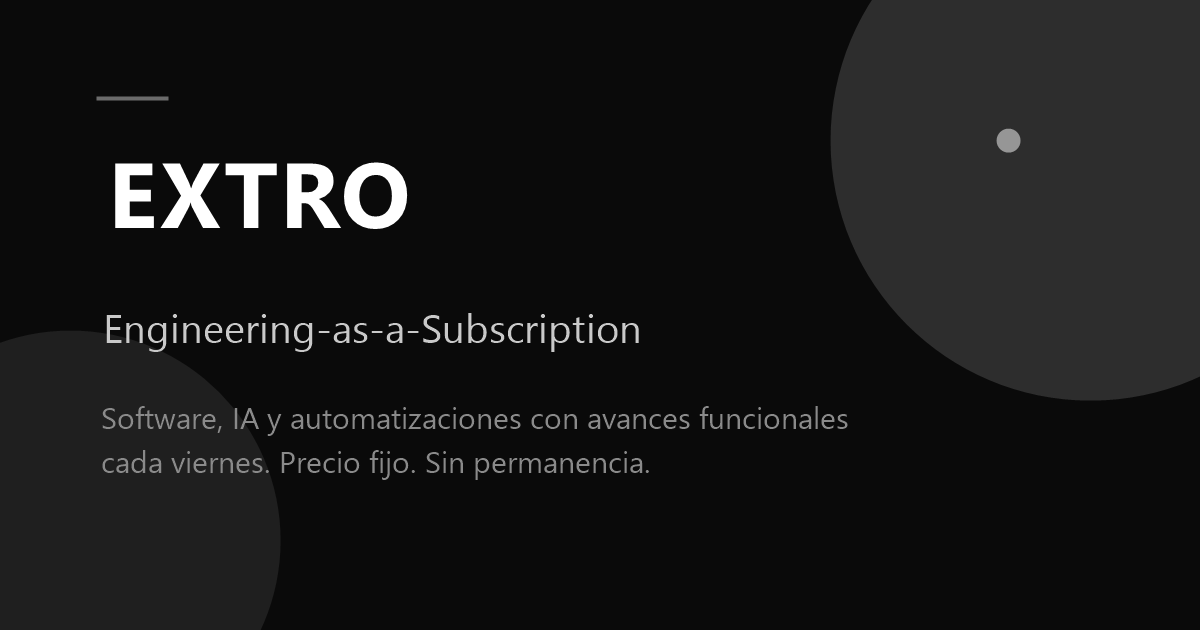
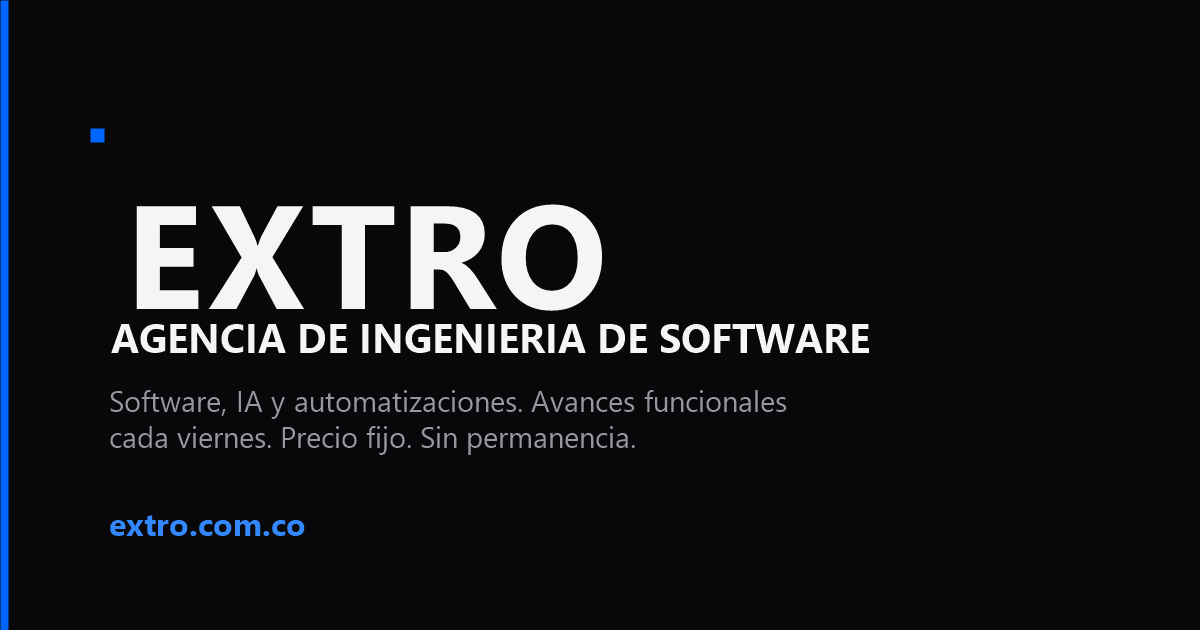
feat: project budget estimator in quote calculator, 3 long-tail blog posts, LocalBusiness schema, hola@extro.com.co email, regenerated OG image, fixed hero H1 rendering (spaces stripped inside inline-block spans), add SAS+SIC guide

diff --git a/lib/blog-posts.ts b/lib/blog-posts.ts
@@ -13,6 +13,45 @@ export interface FallbackPost extends BlogPostMeta {
 
 export const fallbackPosts: FallbackPost[] = [
   {
+    slug: 'cuanto-cuesta-desarrollar-app-colombia',
+    title: '¿Cuánto cuesta desarrollar una app en Colombia en 2026?',
+    excerpt: 'Rangos reales de presupuesto para apps web, móviles y ecommerce en el mercado colombiano, y por qué el precio cerrado es mejor que las horas.',
+    date: '2026-08-01',
+    readTime: '7 min',
+    tag: 'Negocio',
+    content: [
+      'Es la pregunta que más recibo: "¿cuánto cuesta una app?" La respuesta honesta es que depende del alcance, pero en el mercado colombiano de 2026 los rangos son más predecibles de lo que parece. Una landing con panel simple ronda los 1.500–4.000 USD. Un ecommerce con pagos e inventario, 4.000–9.000 USD. Un SaaS con usuarios, integraciones e IA, 9.000–18.000 USD.',
+      'Lo que más mueve el precio no son las pantallas sino lo invisible: autenticación, pagos, panel de administración, integraciones, infraestructura que no se caiga y pruebas automatizadas. Una "app sencilla" sin eso termina costando más en correcciones que un proyecto bien arquitecturado desde el día uno.',
+      'El modelo que usamos en EXTRO: cada proyecto se cotiza según su alcance con precio fijo, y se construye con avances funcionales cada viernes. Tú sabes desde el primer día cuánto vas a pagar y qué recibes cada semana. Si el presupuesto exacto de tu caso te interesa, en el cotizador de extro.com.co respondes 5 preguntas y tienes un rango estimado en 60 segundos.',
+    ],
+  },
+  {
+    slug: 'elegir-agencia-software-medellin',
+    title: 'Cómo elegir una agencia de software en Medellín',
+    excerpt: 'Las 5 preguntas que debes hacerle a cualquier agencia o desarrollador antes de firmar, y las banderas rojas que te ahorran dinero.',
+    date: '2026-07-25',
+    readTime: '8 min',
+    tag: 'Negocio',
+    content: [
+      'Medellín se convirtió en el polo tecnológico de Colombia, y con eso crecieron las opciones: agencias grandes que cobran por horas con gestores de por medio, freelancers baratos que desaparecen a mitad de proyecto, y estudios pequeños como EXTRO que apuestan por alcance cerrado y entrega semanal. Elegir mal cuesta lo mismo que elegir bien dos veces.',
+      'Haz siempre estas 5 preguntas: ¿quién escribe el código y hablo directo con esa persona? ¿El precio es fijo o por horas? ¿Qué entregable concreto recibo cada semana? ¿Quién es dueño del código y la infraestructura? ¿Qué pasa si quiero agregar alcance a mitad de camino? Si una respuesta es vaga, es una bandera roja.',
+      'Las señales de una agencia sólida: entregables semanales demostrables, contrato claro sobre propiedad del código, stack tecnológico estándar (no tecnologías propietarias que te atan) y disposición a empezar con un alcance pequeño. En EXTRO respondemos esas 5 preguntas en una llamada de 15 minutos, sin compromiso.',
+    ],
+  },
+  {
+    slug: 'software-pymes-por-que',
+    title: '¿Por qué tu PYME necesita software propio?',
+    excerpt: 'De las planillas de Excel al producto que te diferencia: cuándo tiene sentido invertir en desarrollo a medida y cuándo no.',
+    date: '2026-07-20',
+    readTime: '6 min',
+    tag: 'Negocio',
+    content: [
+      'La mayoría de las PYMES colombianas opera con la misma infraestructura digital: Excel, WhatsApp y una que otra herramienta SaaS genérica. Eso funciona hasta que creces: los pedidos se pierden, los datos viven en cabezas y la operación depende de procesos manuales que no escalan.',
+      '¿Cuándo sí conviene desarrollo a medida? Cuando un proceso repetitivo consume horas cada semana, cuando dependes de herramientas que no se integran entre sí, o cuando tu diferenciador competitivo es digital (atención 24/7, delivery, pagos en línea). Si ninguna de esas tres cosas es cierta, un SaaS genérico alcanza.',
+      'La buena noticia es que el software a medida ya no es un lujo de empresas grandes: un proyecto puntual se cotiza según su alcance, y después de la entrega puedes continuar evolucionándolo con un plan mensual. Así una PYME tiene equipo de desarrollo propio sin contratar a nadie — nosotros somos ese equipo.',
+    ],
+  },
+  {
     slug: 'precio-cerrado-vs-horas',
     title: 'Por qué el precio cerrado gana contra el cobro por horas',
     excerpt: 'El modelo de precio cerrado elimina incertidumbre para el cliente y fomenta la eficiencia en el desarrollo. Te explico por qué lo uso.',

diff --git a/lib/i18n/es.ts b/lib/i18n/es.ts
@@ -249,13 +249,16 @@ export const es = {
       ]},
     ],
     recommendations: [
-      { plan: 'Foundation', price: '$500/mes', time: '4-6 semanas', tech: 'Next.js, PostgreSQL, Vercel', match: 'Básico' },
-      { plan: 'Growth', price: '$1,250/mes', time: '3-5 semanas', tech: 'Next.js, PostgreSQL, OpenAI, AWS', match: 'Recomendado' },
-      { plan: 'Scale', price: '$2,500/mes', time: '2-4 semanas', tech: 'Next.js, PostgreSQL, OpenAI, Docker, CI/CD pipeline', match: 'Acelerado' },
+      { plan: 'Foundation', price: '$500/mes', range: '$1.500 – $4.000', time: '4-6 semanas', tech: 'Next.js, PostgreSQL, Vercel', match: 'Básico' },
+      { plan: 'Growth', price: '$1,250/mes', range: '$4.000 – $9.000', time: '3-5 semanas', tech: 'Next.js, PostgreSQL, OpenAI, AWS', match: 'Recomendado' },
+      { plan: 'Scale', price: '$2,500/mes', range: '$9.000 – $18.000', time: '2-4 semanas', tech: 'Next.js, PostgreSQL, OpenAI, Docker, CI/CD pipeline', match: 'Acelerado' },
     ],
     resultLabel: 'Recomendación del equipo de ingeniería',
+    projectBudgetLabel: 'Presupuesto estimado del proyecto',
+    budgetHint: 'Rango orientativo en USD. El precio fijo final se confirma en la llamada de 15 minutos.',
+    planContinuityLabel: 'Plan mensual de continuidad (después de la entrega)',
     resultDetail: 'Incluye arquitectura, construcción, QA y despliegue. Después de la entrega puedes continuar con el plan mensual o cerrar.',
-    cta: 'Quiero empezar esta semana',
+    cta: 'Cotizar este proyecto',
     reset: 'Recalcular',
     back: 'Atrás',
     next: 'Siguiente',
@@ -368,7 +371,7 @@ export const es = {
       months: ['Enero', 'Febrero', 'Marzo', 'Abril', 'Mayo', 'Junio', 'Julio', 'Agosto', 'Septiembre', 'Octubre', 'Noviembre', 'Diciembre'],
     },
     whatsapp: 'WhatsApp',
-    email: 'engineering@extro.dev',
+    email: 'hola@extro.com.co',
     location: 'Medellín, Colombia',
     mode: 'Remoto',
   },

diff --git a/lib/i18n/en.ts b/lib/i18n/en.ts
@@ -249,13 +249,16 @@ export const en = {
       ]},
     ],
     recommendations: [
-      { plan: 'Foundation', price: '$500/mo', time: '4-6 weeks', tech: 'Next.js, PostgreSQL, Vercel', match: 'Basic' },
-      { plan: 'Growth', price: '$1,250/mo', time: '3-5 weeks', tech: 'Next.js, PostgreSQL, OpenAI, AWS', match: 'Recommended' },
-      { plan: 'Scale', price: '$2,500/mo', time: '2-4 weeks', tech: 'Next.js, PostgreSQL, OpenAI, Docker, CI/CD pipeline', match: 'Fast track' },
+      { plan: 'Foundation', price: '$500/mo', range: '$1,500 – $4,000', time: '4-6 weeks', tech: 'Next.js, PostgreSQL, Vercel', match: 'Basic' },
+      { plan: 'Growth', price: '$1,250/mo', range: '$4,000 – $9,000', time: '3-5 weeks', tech: 'Next.js, PostgreSQL, OpenAI, AWS', match: 'Recommended' },
+      { plan: 'Scale', price: '$2,500/mo', range: '$9,000 – $18,000', time: '2-4 weeks', tech: 'Next.js, PostgreSQL, OpenAI, Docker, CI/CD pipeline', match: 'Fast track' },
     ],
     resultLabel: 'Engineering team recommendation',
+    projectBudgetLabel: 'Estimated project budget',
+    budgetHint: 'Indicative range in USD. The final fixed price is confirmed on the 15-minute call.',
+    planContinuityLabel: 'Monthly continuity plan (after delivery)',
     resultDetail: 'Includes architecture, build, QA, and deployment. After delivery you can continue with a monthly plan or wrap up.',
-    cta: 'I want to start this week',
+    cta: 'Get a quote for this project',
     reset: 'Recalculate',
     back: 'Back',
     next: 'Next',
@@ -368,7 +371,7 @@ export const en = {
       months: ['January', 'February', 'March', 'April', 'May', 'June', 'July', 'August', 'September', 'October', 'November', 'December'],
     },
     whatsapp: 'WhatsApp',
-    email: 'engineering@extro.dev',
+    email: 'hola@extro.com.co',
     location: 'Medellín, Colombia',
     mode: 'Remote-first',
   },

diff --git a/components/Hero.tsx b/components/Hero.tsx
@@ -1,6 +1,6 @@
 'use client'
 
-import { useEffect, useMemo, useRef } from 'react'
+import { Fragment, useEffect, useMemo, useRef } from 'react'
 import { useLang } from './LanguageProvider'
 import { ArrowDown, ArrowRight } from 'lucide-react'
 
@@ -236,16 +236,18 @@ export default function Hero() {
       <div className="relative z-10 max-w-4xl mx-auto w-full text-center">
         <h1 className="font-display font-semibold text-primary leading-[0.96] tracking-[-0.04em] mb-6 text-[clamp(2.6rem,6.5vw,4.75rem)]">
           {titleWords.map((word, i) => (
-            <span key={`w-${i}`} className="hero-word inline-block">
-              {word}{' '}
-            </span>
+            <Fragment key={`w-${i}`}>
+              <span className="hero-word inline-block">{word}</span>
+              {' '}
+            </Fragment>
           ))}
           {highlightWords.length > 0 && (
             <span className="hero-word block mt-2 opacity-45 text-[clamp(1.6rem,3.5vw,2.5rem)]">
               {highlightWords.map((word, i) => (
-                <span key={`h-${i}`} className="inline-block">
-                  {word}{' '}
-                </span>
+                <Fragment key={`h-${i}`}>
+                  <span className="inline-block">{word}</span>
+                  {' '}
+                </Fragment>
               ))}
             </span>
           )}

diff --git a/app/layout.tsx b/app/layout.tsx
@@ -52,18 +52,40 @@ export const metadata: Metadata = {
 
 const organizationSchema = {
   '@context': 'https://schema.org',
-  '@type': 'Organization',
+  '@type': ['Organization', 'ProfessionalService'],
   name: 'EXTRO',
   url: 'https://extro.com.co',
   logo: 'https://extro.com.co/icon.png',
   description:
     'Agencia de ingeniería de software. Cotiza tu proyecto y, después de la entrega, sigue evolucionándolo con un plan mensual con avances funcionales cada viernes.',
-  email: 'engineering@extro.dev',
+  email: 'hola@extro.com.co',
+  telephone: '+573005865312',
   address: {
     '@type': 'PostalAddress',
     addressLocality: 'Medellín',
     addressCountry: 'CO',
   },
+  geo: {
+    '@type': 'GeoCoordinates',
+    latitude: 6.2442,
+    longitude: -75.5812,
+  },
+  areaServed: {
+    '@type': 'Country',
+    name: 'Colombia',
+  },
+  openingHoursSpecification: [
+    {
+      '@type': 'OpeningHoursSpecification',
+      dayOfWeek: ['Monday', 'Tuesday', 'Wednesday', 'Thursday', 'Friday'],
+      opens: '09:00',
+      closes: '18:00',
+    },
+  ],
+  sameAs: [
+    'https://github.com/sebast219',
+    'https://www.linkedin.com/in/sebastian-yepes-dev/',
+  ],
 }
 
 const websiteSchema = {

diff --git a/components/QuoteCalculator.tsx b/components/QuoteCalculator.tsx
@@ -15,6 +15,7 @@ type Answers = {
 type Recommendation = {
   plan: string
   price: string
+  range?: string
   time: string
   tech: string
   match: string
@@ -102,6 +103,20 @@ export default function QuoteCalculator() {
           <div className="text-center py-4">
             <div className="text-xs font-semibold uppercase tracking-[0.12em] mb-6 opacity-50">
               {q.resultLabel}
+            </div>
+
+            <div className="mb-8">
+              <div className="text-[10px] font-semibold uppercase tracking-[0.1em] opacity-45 mb-2">
+                {q.projectBudgetLabel}
+              </div>
+              <div className="text-3xl font-bold text-primary font-display tabular-nums">
+                {rec.range || rec.price}
+              </div>
+              <div className="text-[11px] opacity-45 mt-1.5 max-w-xs mx-auto">{q.budgetHint}</div>
+            </div>
+
+            <div className="text-[10px] font-semibold uppercase tracking-[0.1em] opacity-40 mb-3">
+              {q.planContinuityLabel}
             </div>
 
             <div className="flex items-center justify-center gap-4 mb-8">

diff --git a/app/api/booking/route.ts b/app/api/booking/route.ts
@@ -85,7 +85,7 @@ export async function POST(req: Request) {
     const resend = new Resend(apiKey)
     const { data, error } = await resend.emails.send({
       from: process.env.EMAIL_FROM || 'EXTRO <onboarding@resend.dev>',
-      to: [process.env.CONTACT_TO || 'engineering@extro.dev'],
+      to: [process.env.CONTACT_TO || 'hola@extro.com.co'],
       replyTo: email,
       subject: `Intro call agendada · ${name} · ${date} ${time}`,
       html: buildEmailHtml({ name, email, date, time, notes }),

diff --git a/docs/tramites-sas-sic.md b/docs/tramites-sas-sic.md
@@ -1,0 +1,102 @@
+# Guía: Constitución SAS + Registro de Marca (SIC) para EXTRO
+
+> Contexto: agencia de servicios de desarrollo de ingeniería de software (apps web/móviles, IA, automatización, ecommerce).
+> Esta guía es informativa, no es asesoría legal. Montos y plazos aproximados a 2026 — verifica en cada portal oficial.
+
+---
+
+## Parte 1 — Constituir la SAS (Cámara de Comercio de Medellín)
+
+Una SAS (Sociedad por Acciones Simplificada) se puede constituir con un solo accionista, con documento privado (no requiere escritura pública ni notaría).
+
+### Pasos
+
+1. **Pre-validación del nombre (homonimia)**
+   - Portal: [RUES](https://www.rues.org.co) → "Verificación de homonimia"
+   - Busca variantes: "EXTRO", "EXTRO SAS", "EXTRO ENGINEERING SAS".
+   - Si existe una sociedad con el mismo nombre, el sistema te sugerirá una variante ("EXTRO SOFT", "EXTRO TEC", etc.). Valida también que la razón social no se cruce con marcas registradas en la SIC (paso de la Parte 2).
+
+2. **Documento privado de constitución**
+   - Incluye: nombre, domicilio, objeto social (redáctalo amplio: "desarrollo de software, consultoría tecnológica, IA, automatización, comercio electrónico"), capital suscrito y pagado, número de acciones, administrador(es), duración indefinida.
+   - La SAS no exige revisor fiscal si tiene menos de 2.000 UVT en activos o si no supera los umbrales de la Ley 43/1990 — para una agencia de servicios nueva, no aplica.
+
+3. **Registro ante la Cámara de Comercio**
+   - En línea vía [CCMedellín](https://www.camaramedellin.com.co) → "Registro de empresas".
+   - Costo aproximado: matrícula ~$30.000–60.000 COP + derechos de inscripción (~0.7% del capital pagado si supera el mínimo).
+   - Entrega: certificado de existencia y representación legal (en ~1-2 días hábiles).
+
+4. **RUT ante la DIAN**
+   - [DIAN](https://www.dian.gov.co) → inscribir la sociedad en el RUT con la actividad CIIU correspondiente (6201/6202 — actividades de desarrollo de sistemas informáticos / consultoría informática).
+   - Fija la responsabilidad fiscal: IVA (régimen común desde el primer día), retención en la fuente, declaración de renta.
+
+5. **Firma electrónica + facturación electrónica**
+   - Habilita firma electrónica (ej. Certicámara, GSE) y resolución de facturación electrónica en la DIAN (obligatoria para venderle a empresas).
+
+6. **Cuenta bancaria empresarial**
+   - Con el RUT y certificado de la Cámara: cuenta corriente/ahorro a nombre de EXTRO SAS (Bancolombia, Davivienda, Nequi empresarial, Lulo Bank, etc.). Necesaria para recibir pagos de clientes y luego para el pago de tasas de la SIC.
+
+7. **Registro mercantil + renovación anual**
+   - Matrícula mercantil se renueva cada año (enero–marzo). No la dejes vencer: sin matrícula vigente no puedes facturar legalmente.
+
+---
+
+## Parte 2 — Registrar la marca "EXTRO" (SIC)
+
+> El registro de la SAS protege tu **razón social** (nombre legal de la empresa), NO tu **marca** (el nombre comercial "EXTRO" ante terceros). Son trámites distintos.
+
+### Clase correcta (Clasificación de Niza)
+
+- **Clase 42 (esencial)**: servicios de desarrollo de software, diseño y desarrollo de programas, consultoría en tecnología de la información, alojamiento de plataformas.
+- Evalúa adicionalmente:
+  - **Clase 9**: si vendes tu propio software/productos (apps publicadas, APIs).
+  - **Clase 35**: si ofreces servicios de publicidad/marketing digital como servicio.
+
+### Pasos
+
+1. **Búsqueda de anterioridad**
+   - Portal: [SIC – VUPE](https://vip.sic.gov.co) (Vitrina de Propiedad / consulta de signos distintivos).
+   - Busca "EXTRO" y variantes ("EXTROO", "EXTRO STUDIO", "EXTRO ENGINEERING") en clases 9, 35, 42 y en todas las clases (marcas notorias de otras clases pueden obstaculizar).
+   - Resultado esperado: extron.com (EE.UU.), extro.ro (Rumania), etc. son **extranjeras** y no bloquean automáticamente en Colombia — pero si existe "EXTRO" o similar registrada en Colombia en clase 42, la SIC puede denegar o el titular puede oponerse.
+
+2. **Solicitud en línea**
+   - Portal: [SIC – Servicios en línea](https://serviciosenlinea.sic.gov.co) → "Signos distintivos" → "Solicitud de registro".
+   - Datos: solicitante = EXTRO SAS (NIT), signo = "EXTRO" (nominativa) y, si quieres blindar, presenta también la versión mixta con logo.
+   - Clases: 42 (+ 9 y 35 si aplica). Cada clase es una solicitud/tasa distinta.
+
+3. **Pago de tasa**
+   - Monto aproximado por solicitud: entre ~$300.000 y ~$500.000 COP por clase (consulta la tasa vigente en el tarifario de la SIC). Varía si el solicitante es PYME (calidad de pequeña empresa: aplica la tasa reducida si tienes la certificación PYME).
+
+4. **Examen de forma + publicación en Gaceta**
+   - Tras el pago, la SIC examina formalidad y publica la solicitud en la Gaceta de Propiedad Industrial.
+   - Se abre el término de **oposición de 30 días hábiles**: cualquier tercero con marcas anteriores puede oponerse.
+
+5. **Examen de fondo y resolución**
+   - La SIC evalúa distintividad y riesgo de confusión. Plazo típico de resolución: **6–12 meses** desde la solicitud.
+
+6. **Registro y vigencia**
+   - Si se concede: pagas la expedición del título y registras. La marca dura **10 años**, renovables por períodos iguales.
+   - **Usa la marca** (facturación, sitio, redes): en Colombia el registro se otorga por solicitud (first-to-file), pero la falta de uso puede dar lugar a cancelación por no uso (a petición de tercero) después de 3 años.
+
+---
+
+## Orden recomendado
+
+| Paso | Qué | Cuánto tarda |
+|------|-----|--------------|
+| 1 | Validar homonimia (RUES) + búsqueda VUPE | 1-2 días |
+| 2 | Constituir SAS + RUT + cuenta bancaria | 1-2 semanas |
+| 3 | Solicitar marca en SIC (clase 42) | mismo día del trámite |
+| 4 | Facturación electrónica | 1-3 días |
+| 5 | Esperar examen SIC (haciendo vida comercial mientras tanto) | 6-12 meses |
+
+## Checklist rápido
+
+- [ ] Homonimia aprobada en RUES (sin sociedades "EXTRO" previas)
+- [ ] Búsqueda VUPE: sin marcas "EXTRO" en clases 9/35/42 en Colombia
+- [ ] Documento de constitución SAS con objeto social amplio
+- [ ] Registro en Cámara de Comercio + certificado
+- [ ] RUT con CIIU 6201/6202 + régimen de IVA
+- [ ] Cuenta bancaria empresarial
+- [ ] Firma electrónica + resolución de facturación electrónica
+- [ ] Solicitud de marca SIC clase 42 (y 9/35 si aplica)
+- [ ] Google Business Profile (Medellín) apuntando a extro.com.co
